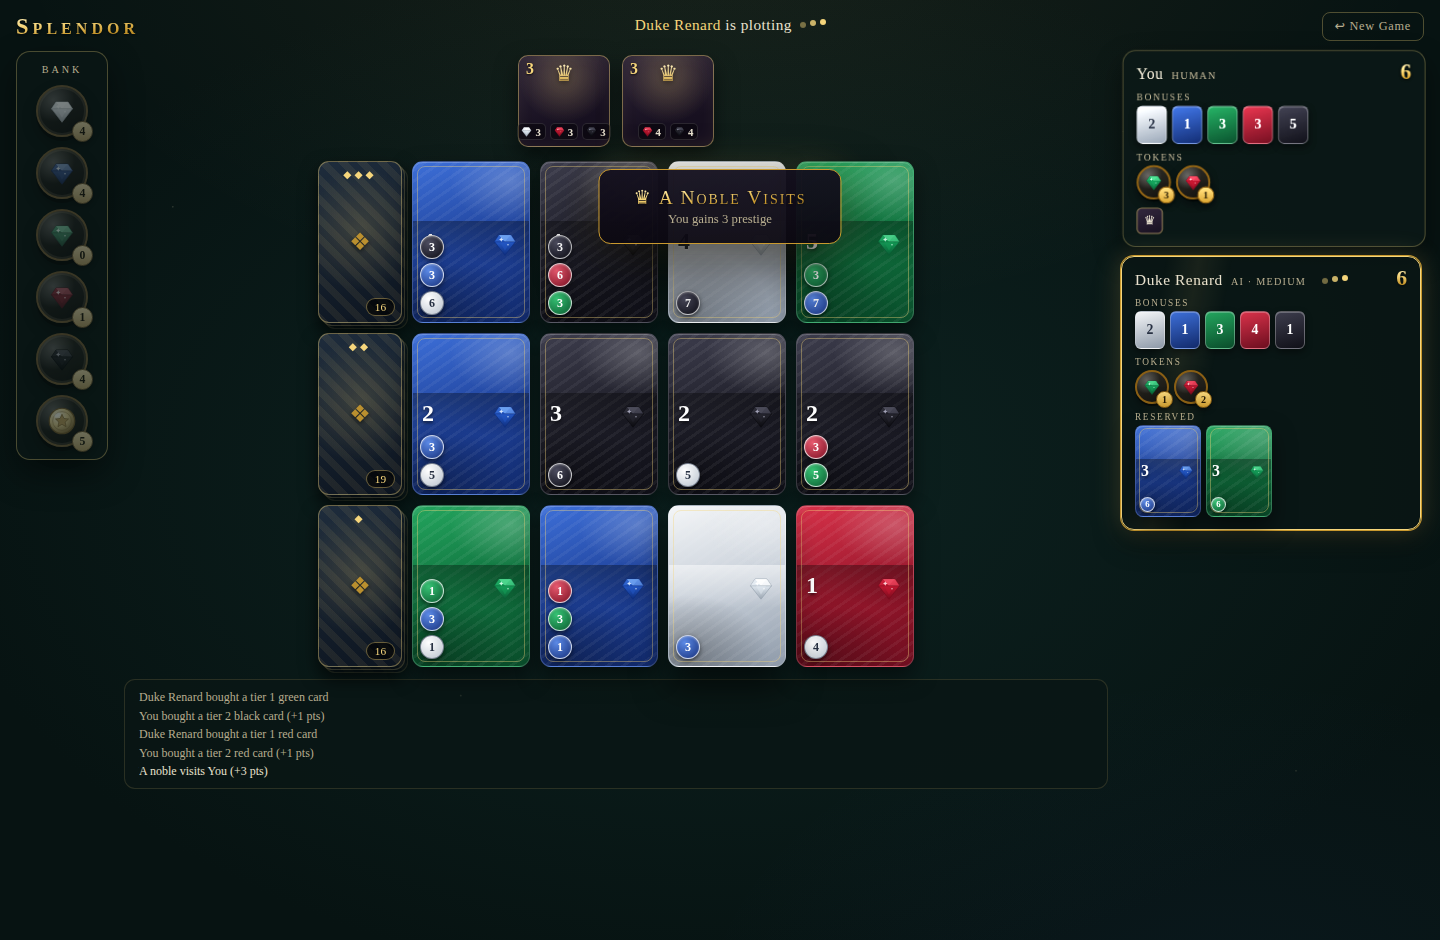
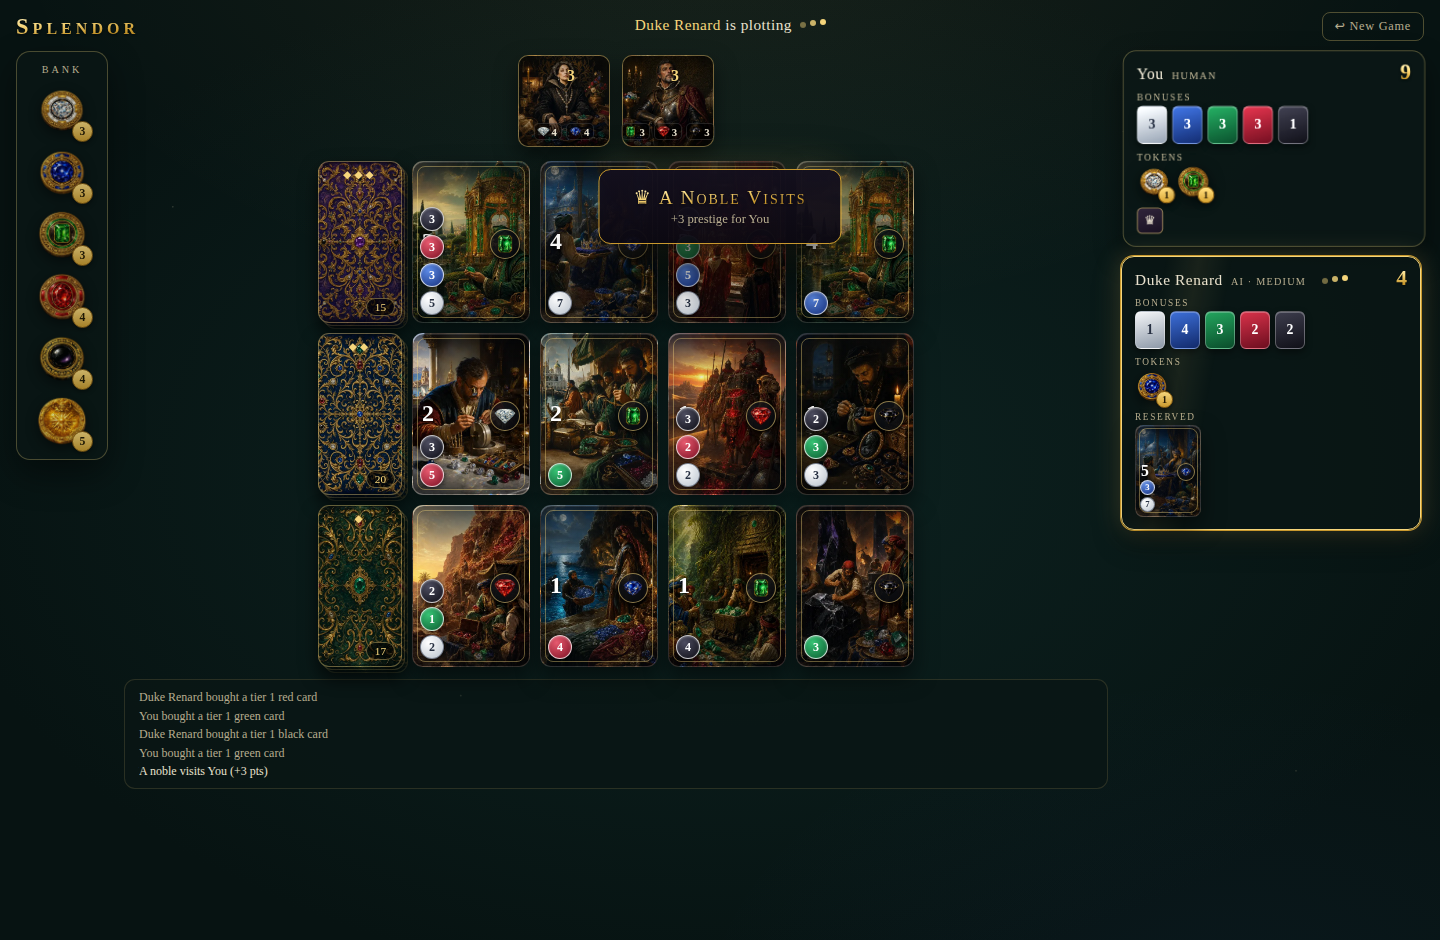
Add AI-painted game artwork (34 assets) and polish art presentation
Painted card faces, card backs, gem tokens, gem icons and 8 noble
portraits generated with gpt-image-2/1.5, downscaled to WebP and
inlined into the single-file build. Bonus gems get a dark badge for
readability over paintings; token piles now distinguish depleted
from momentarily unclickable.

Claude-Session: https://claude.ai/code/session_01XX9otnDERmrShFkPyguEYD

diff --git a/src/styles.css b/src/styles.css
@@ -371,7 +371,10 @@ button {
   transition: transform 0.16s;
 }
 .token-pile:not(:disabled):hover { transform: translateY(-3px) scale(1.07); }
-.token-pile:disabled { cursor: default; opacity: 0.45; filter: saturate(0.5); }
+/* not clickable right now (AI turn, gold pile): only slightly muted */
+.token-pile:disabled { cursor: default; opacity: 0.82; }
+/* actually out of tokens: clearly dimmed */
+.token-pile.depleted { opacity: 0.32; filter: saturate(0.35); }
 
 .token-chip {
   width: 52px;
@@ -749,9 +752,16 @@ button {
   color: #fff;
   text-shadow: 0 2px 4px rgba(0, 0, 0, 0.9), 0 0 12px rgba(0, 0, 0, 0.6);
 }
+/* dark badge so the bonus gem reads against busy paintings */
 .dev-card.has-art .card-head .gem-art {
   filter: drop-shadow(0 2px 4px rgba(0, 0, 0, 0.9));
+  background: radial-gradient(circle at 40% 32%, rgba(26, 30, 36, 0.62), rgba(6, 8, 12, 0.82));
+  border: 1px solid rgba(246, 214, 124, 0.55);
+  border-radius: 50%;
+  padding: 3px;
+  box-shadow: 0 2px 6px rgba(0, 0, 0, 0.65);
 }
+.dev-card.mini.has-art .card-head .gem-art { padding: 2px; }
 
 .dev-card:not(:disabled):hover {
   transform: translateY(-7px) scale(1.045);

diff --git a/src/ui/GameScreen.tsx b/src/ui/GameScreen.tsx
@@ -323,7 +323,7 @@ export function GameScreen({
             return (
               <button
                 key={c}
-                className={`token-pile ${selCount > 0 ? 'selected' : ''}`}
+                className={`token-pile ${selCount > 0 ? 'selected' : ''} ${n === 0 ? 'depleted' : ''}`}
                 disabled={!selectable}
                 data-gem-pile={c}
                 data-fly-target={`bank-${c}`}
